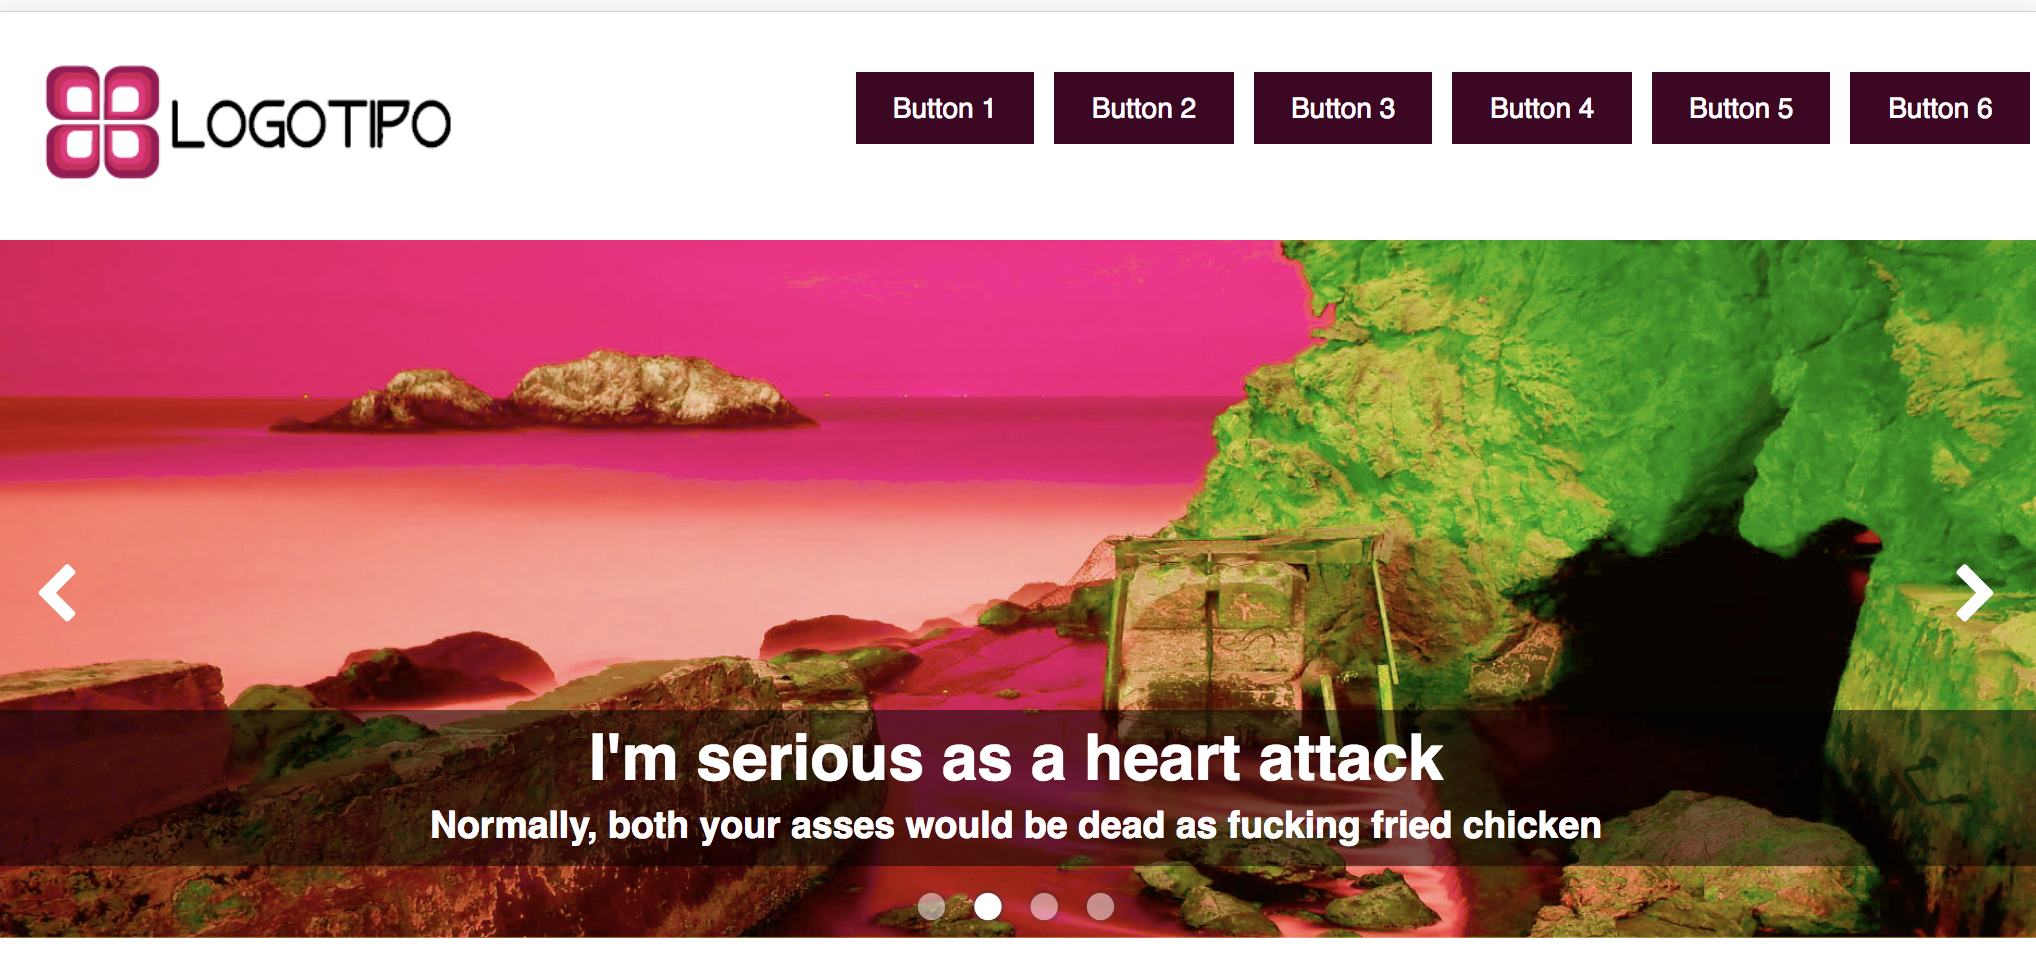
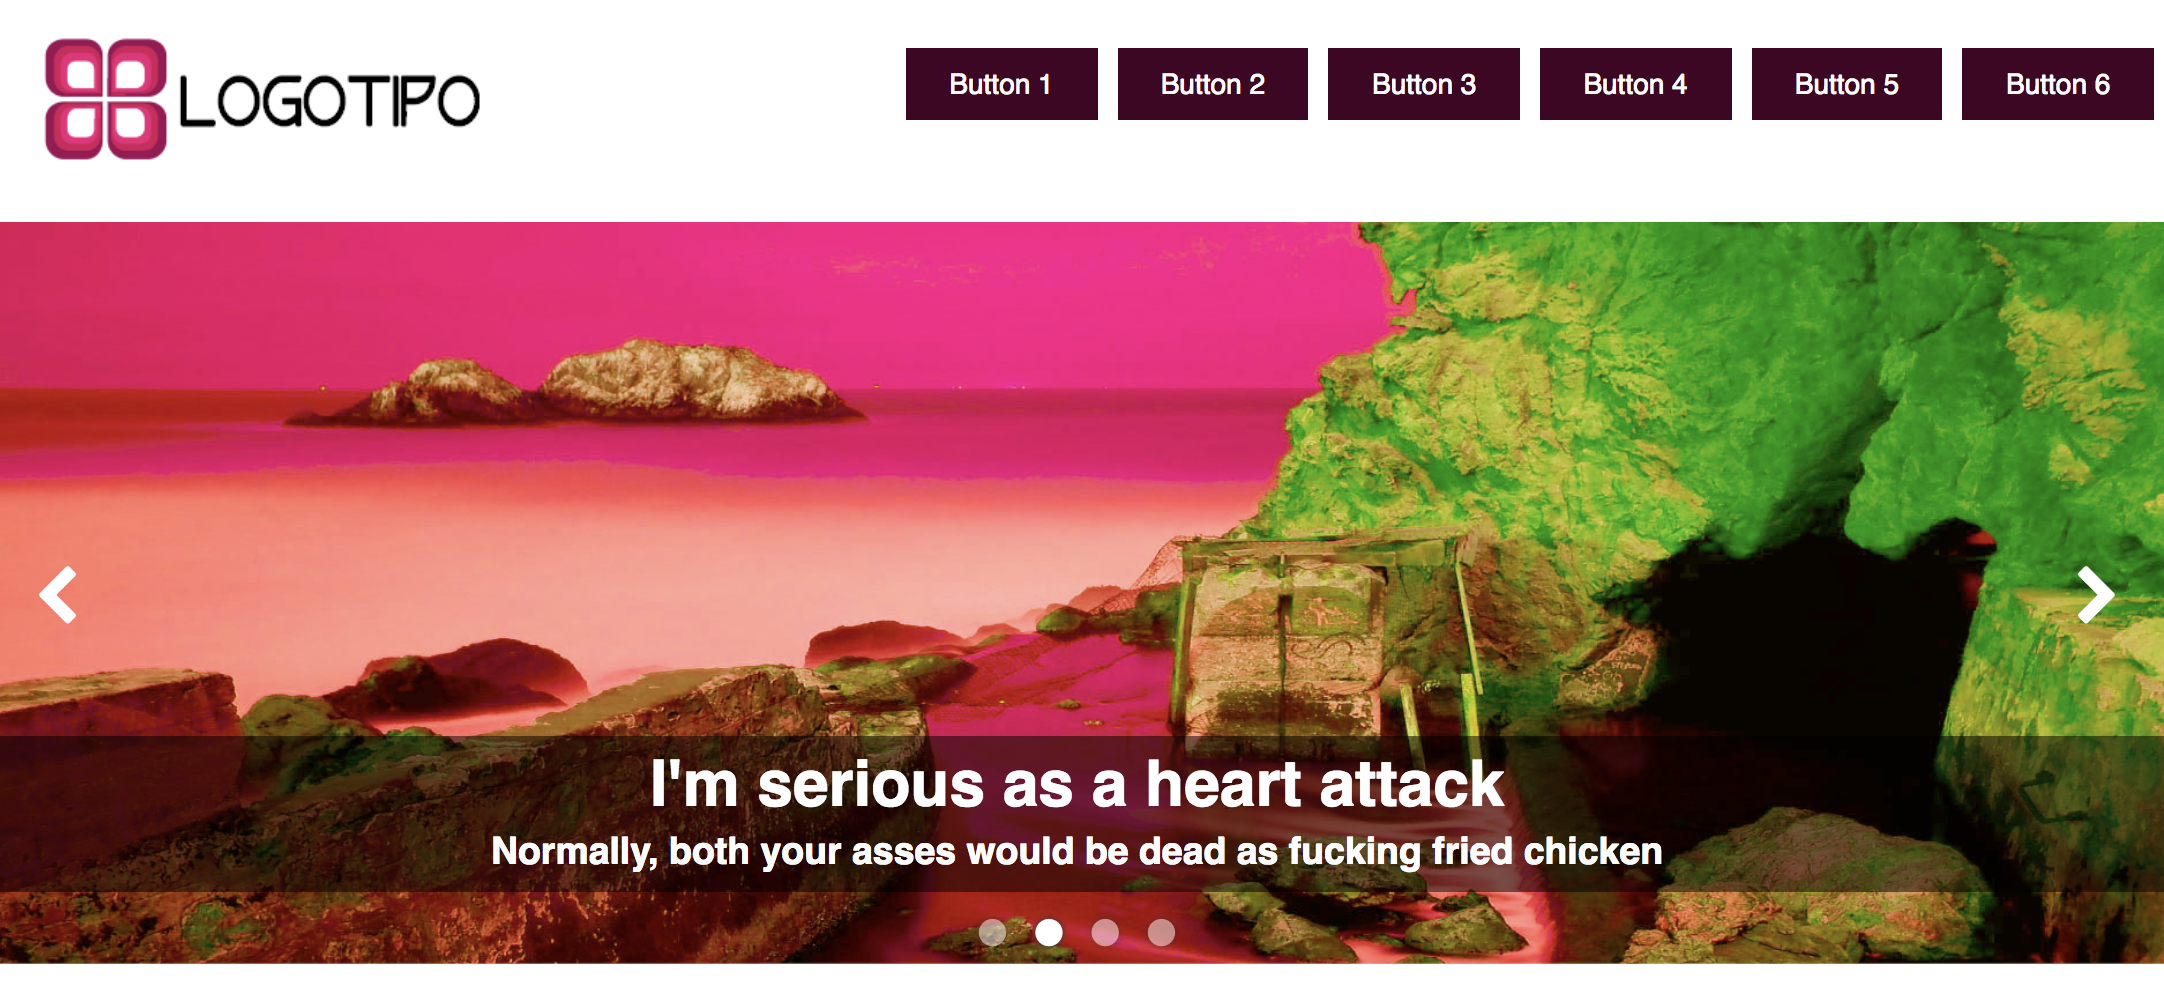
docs(README): Position for screenshots and link demo

diff --git a/README.md b/README.md
@@ -1,8 +1,12 @@
 # Slideshow JS
-Slideshow con animación (slide o fade) y texto personalizable adaptable a todos los dispositivos.
+Slideshow con texto personalizable adaptable a todos los dispositivos.
 
-### Screen Large, Medium, Tablet
-![Slideshow JS](https://github.com/micazoyolli/slideshow/blob/master/img/screenshot.png)
+<p align="center">
+  <img alt="Screen Large, Medium, Small" src="https://github.com/micazoyolli/slideshow/blob/master/img/screenshot.png" style="margin-right:15px" width="80%" />
 
-### Screen Small
-![Slideshow JS](https://github.com/micazoyolli/slideshow/blob/master/img/screenshot-sm.png)
+  <img alt="Screen XS" src="https://github.com/micazoyolli/slideshow/blob/master/img/screenshot-sm.png" width="20%" />
+</p>
+
+Demo
+---
+[Calculadora JS Demo](https://micazoyolli.github.io/slideshow/)
